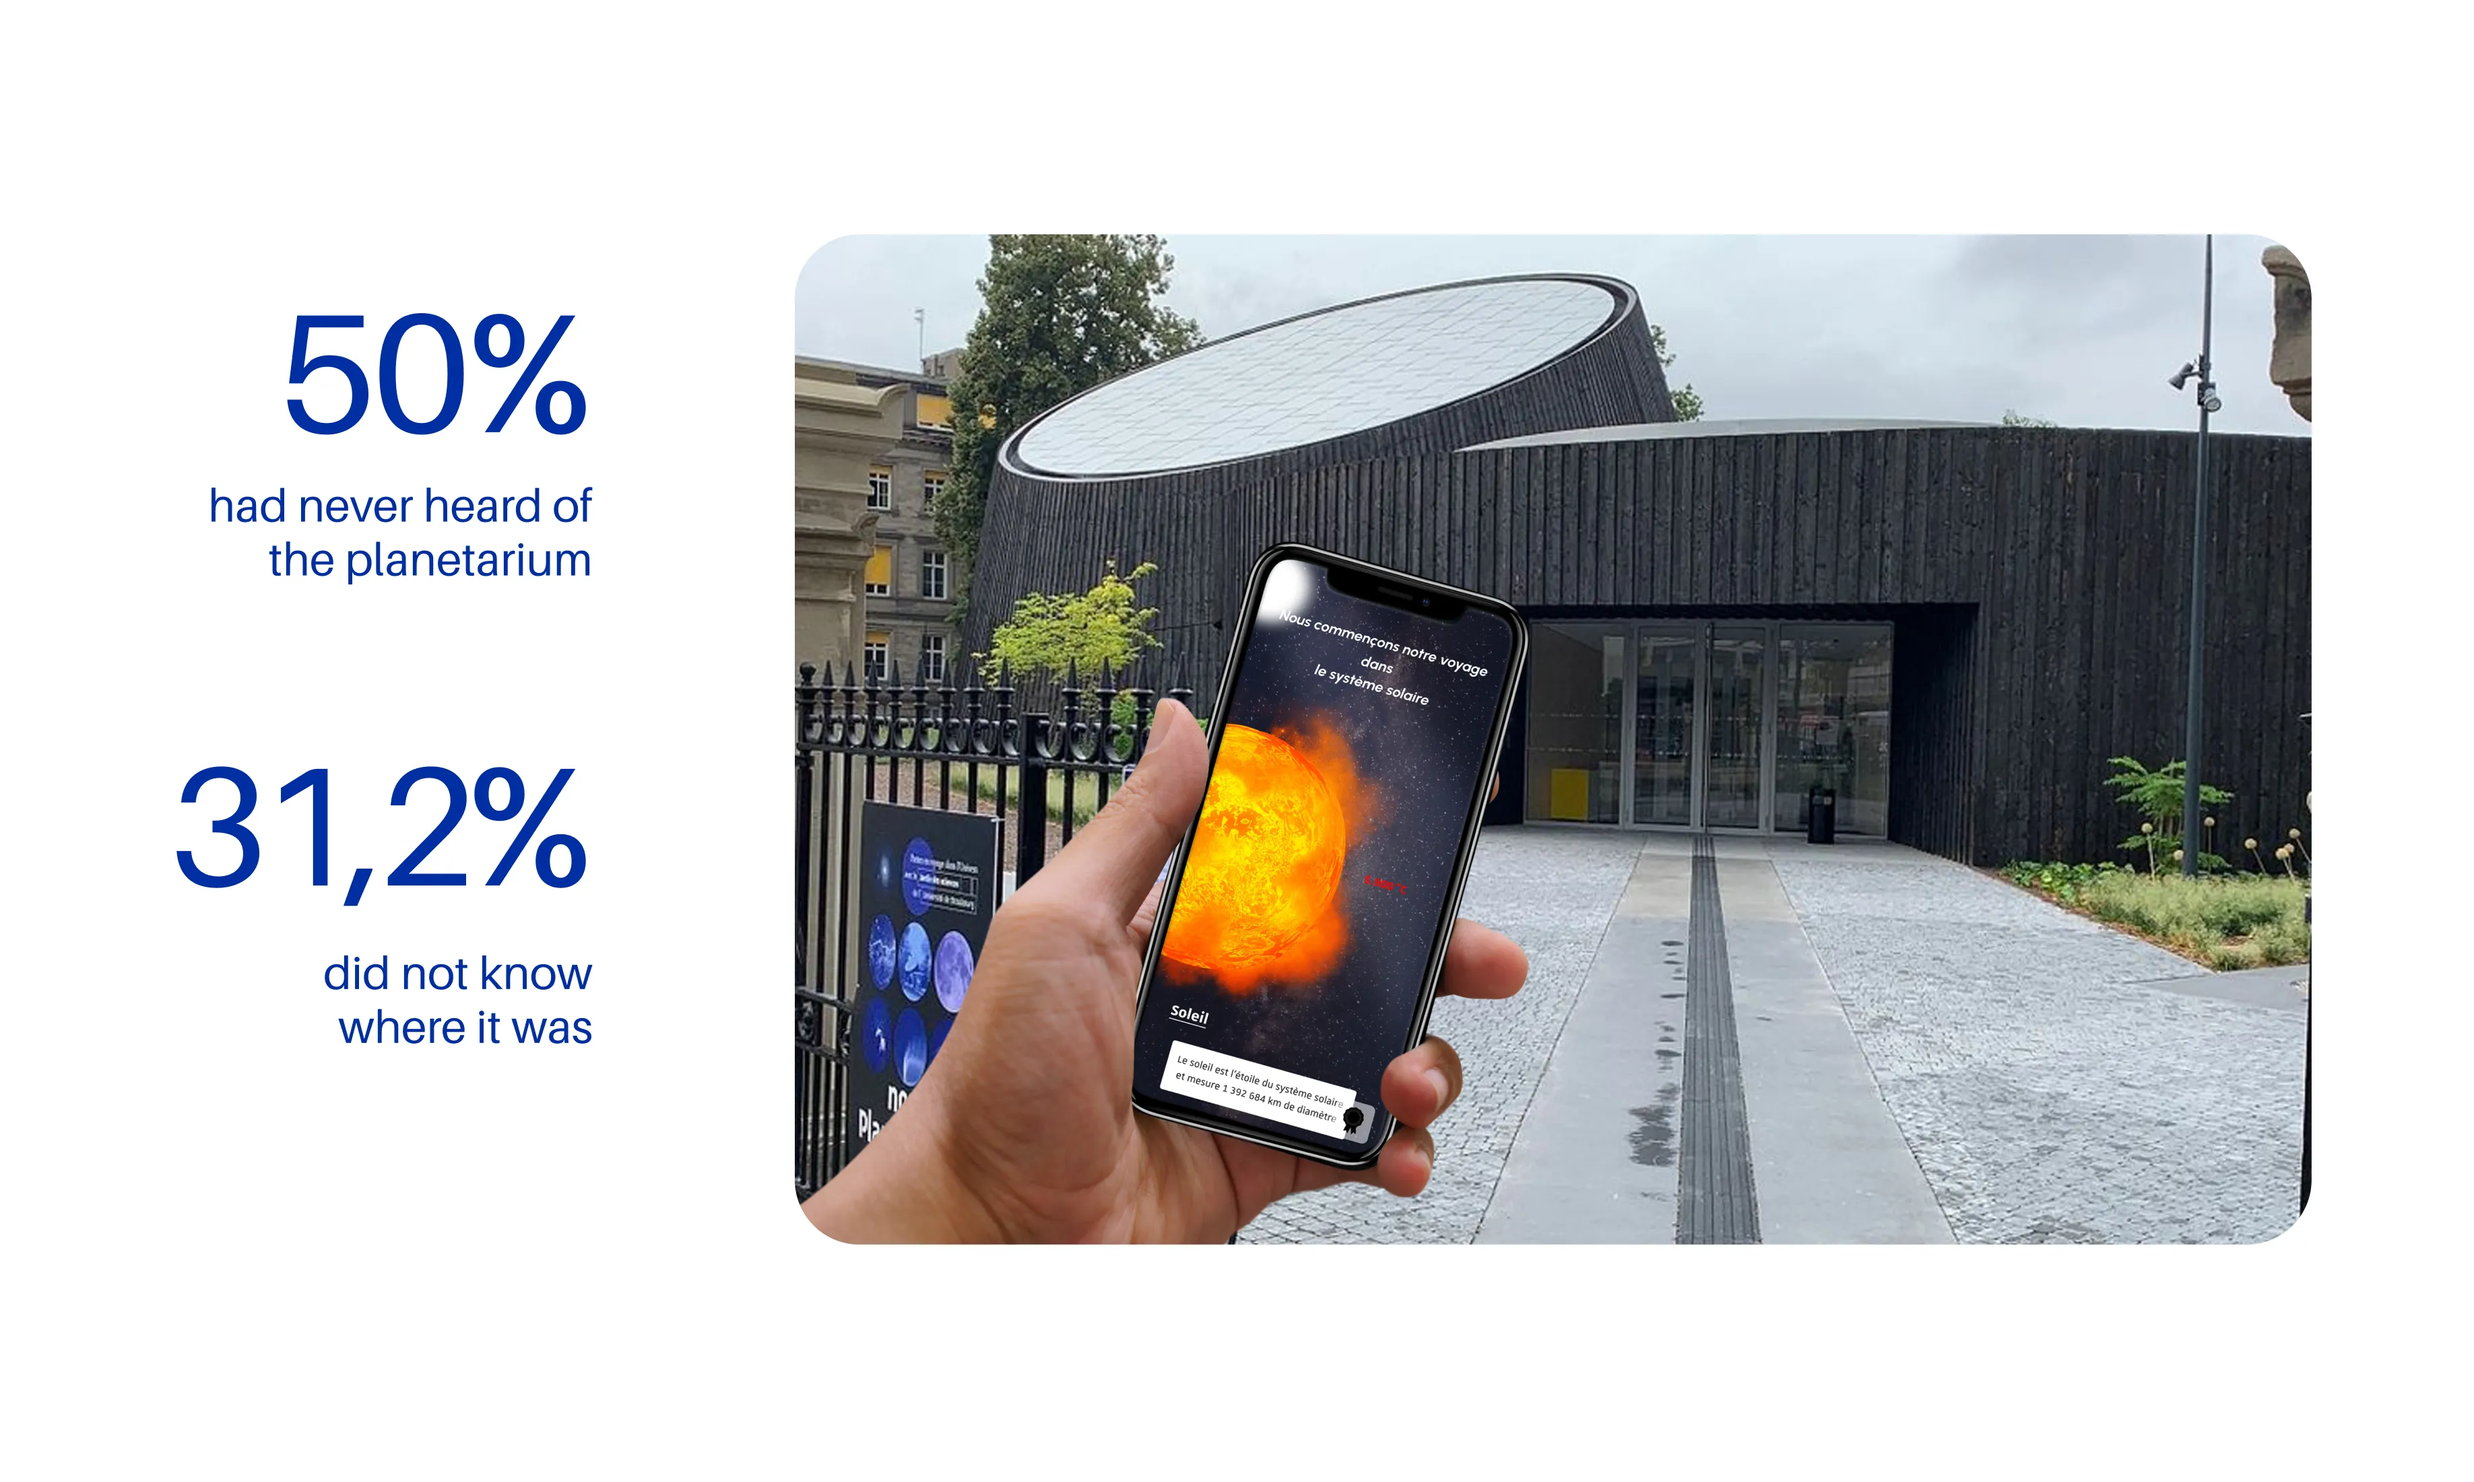
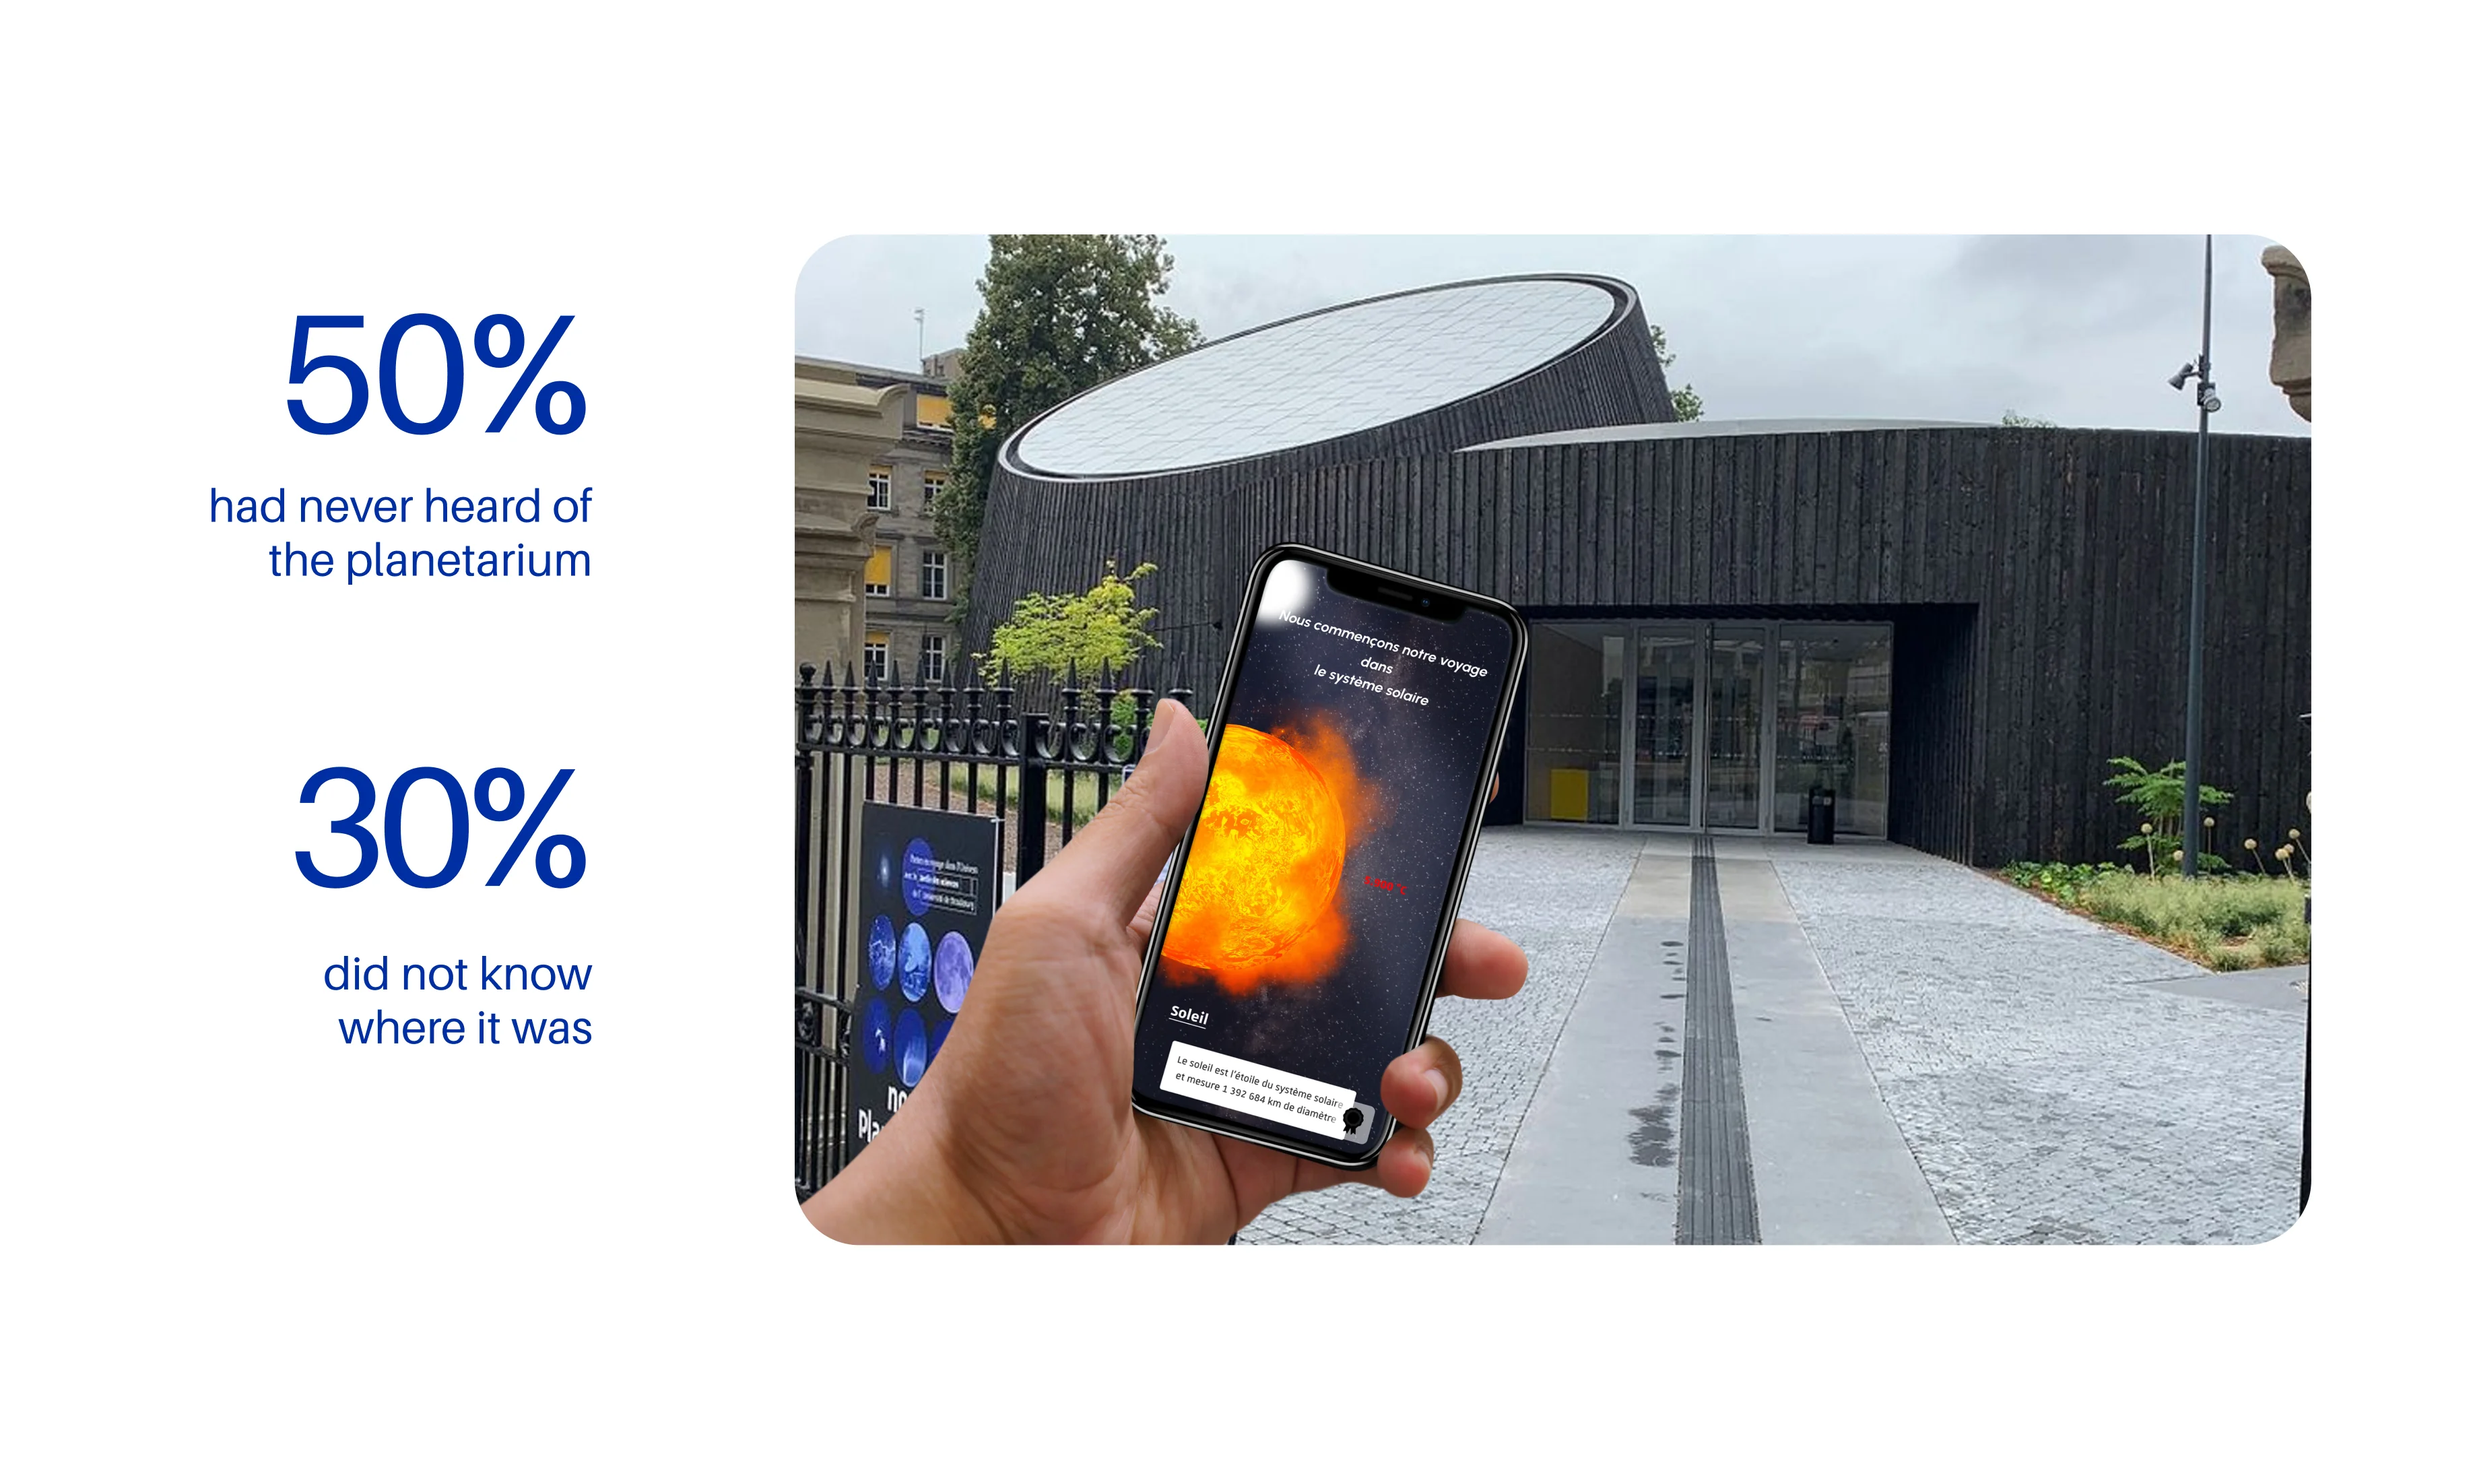
Update Planetarium project content and translations
Revised the Planetarium project HTML to replace target audience details with credits and updated research findings. Adjusted English, French, and Italian translations to reflect new project descriptions, simplified research findings, and added credits. Updated Research.webp asset.

diff --git a/projets/Planetarium.html b/projets/Planetarium.html
@@ -198,22 +198,19 @@
                             </div>
                             <div class="brief-cell">
                                 <p class="brief-value" data-translate="planetarium.research.intro">Our observations and street interviews revealed critical visibility issues with the Strasbourg Planetarium.</p>
-                                <p class="brief-value" data-translate="planetarium.research.findings.unaware">30% of respondents had never heard of the planetarium.</p>
-                                <p class="brief-value" data-translate="planetarium.research.findings.location">50% knew it existed but did not know where it was located.</p>
                                 <p class="brief-value" data-translate="planetarium.research.goal">This lack of visibility motivated us to create a project to help the planetarium reach a wider audience through interactive digital experiences integrated into the city's cultural and touristic spaces.</p>
                             </div>
                         </div>
                     </section>
 
+                    <!-- Credits -->
                     <section class="ui-section">
                         <div class="brief-row">
                             <div class="brief-cell">
-                                <div class="brief-label" data-translate="planetarium.target.label">Target audiences</div>
+                                <div class="brief-label" data-translate="planetarium.headers.credits">Credits</div>
                             </div>
                             <div class="brief-cell">
-                                <p class="brief-value" data-translate="planetarium.target.text">
-                                    Our solution targets two key personas: curious tourists discovering Strasbourg who stumble upon QR codes in museums, and local residents rediscovering their city who encounter codes while exploring. The application speaks to both spontaneous discovery and intentional exploration.
-                                </p>
+                                <p class="brief-value" data-translate="planetarium.credits.text">Project conceived and realized with Baptiste Fritz at the University of Strasbourg.</p>
                             </div>
                         </div>
                     </section>
